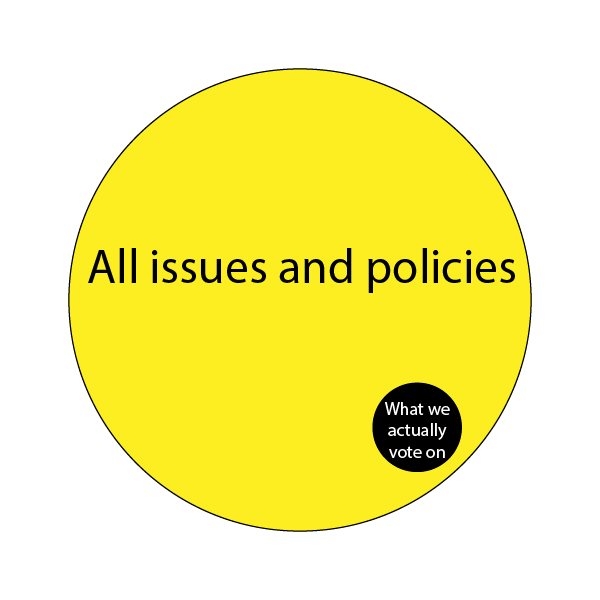
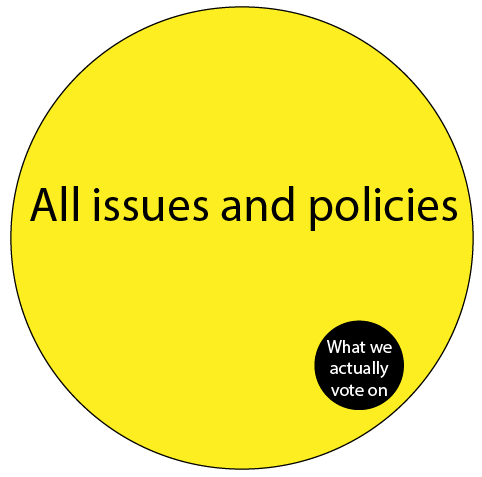
added new image and layouts for about page

diff --git a/uv-vote/src/About.js b/uv-vote/src/About.js
@@ -13,24 +13,30 @@ return(
   <Row>
   
     <h2>About U-Vote</h2>
-    <p>U-Vote is for voters! We exist to bring value to you as a voter, no matter how you vote. The way we see it, there’s a big gap between all the issues we care about and the few we actually get to vote on, and we intend to shrink that gap! We want to empower voters, by flipping the script and letting you vote on lots of issues, then taking those results to your elected officials and the public. While votes in U-Vote are non-binding, they do send a big message on your behalf to your elected officials and the public. And, we keep it simple. Vote on your schedule, from your devices, and be heard on lots of topics all year.</p>
+    <p>U-Vote is for voters! We exist to bring value to you as a voter, no matter how you vote. The way we see it, there’s a big gap between all the issues we care about and the few we actually get to vote on, and we intend to shrink that gap! We want to empower voters, by flipping the script and letting you vote on lots of issues, then taking those results to your elected officials and the public. While votes in U-Vote are non-binding, they do send a big message on your behalf. And, we keep it simple. Vote on your schedule, from your devices, and be heard on lots of topics all year.</p>
    
   </Row>    
   <h2>How we got started</h2>
 <Row id="elevate" className='mt-3'>
-  <Col lg={6} sm={12}>
-  <div className="mb-2 centered-img"><img id="voiceImg" src="ben-selfy.webp" /><figcaption>U-Vote booth at Arlington Courthouse Farmer's market</figcaption></div>
-  </Col>
-    <Col lg={6} sm={12}>
+ 
+  <div className="mb-2 centered-img"><img id="voiceImg" src="ben-selfy.webp" /><figcaption class="figure-caption">Founder Ben Bonnet at U-Vote booth <br/>at Arlington Courthouse Farmer's market</figcaption></div>
     <p>Do problems like gerrymandering, term limits and money in politics frustrate you? Me too. I started my journey to create U-Vote out of frustration. It just didn’t seem right to me that issues with broad public support, like gerrymandering reform, campaign finance reform and term limits, never really get a vote. So I originally set out to tackle those specific issues.</p>
-    </Col>
 </Row>
+<h2>The 'Representation Gap'</h2>
 <Row>
   <Col lg={6} sm={12}>
-  <p>Along the way, I recognized the ‘voting gap’ - i.e. we really don’t get to vote on much each year, but we care about a lot. I realized that we could give people the ability to vote all year long on those issues that never end up on the ballot. And with a software development and user experience background, I thought we could create a system that was simple, convenient and impactful for voters. And here we are, kicking off U-Vote beta testing!</p>
+  <p>Along the way, I recognized the <strong>'representation gap’</strong> - i.e. we really don’t get to vote on much each year, but we care about a lot. I realized that we could give people the ability to vote all year long on those issues that never end up on the ballot. And with a software development and user experience background, I thought we could create a system that was simple, convenient and impactful for voters. And here we are, kicking off U-Vote beta testing!</p>
+  <p>U-Vote is a response to the representation gap. We want to enable you to make your voice heard through <strong>simple, convenient and powerful actions</strong>.</p>
+  <p>Creating a system that’s easy, dynamic and driven to give voters more of a voice is what we're all about!</p>
+  <ul>
+    <li>No special interests,</li>
+    <li>no parties,</li> 
+    <li>no money</li>
+  </ul>
+  <p>All that’s missing is you</p>
   </Col>
   <Col lg={6} sm={12}>
-  <div><img id="votingGap" src="voting_gap.png" /></div>
+  <div><img id="votingGap" src="voting_gap.png" /><figcaption id='repGap' class="figure-caption">Diagram showing the 'representation gap'</figcaption></div>
   </Col>
 </Row>
 {/* <Row className='mt-3 alt-grey'>
@@ -62,16 +68,6 @@ return(
   </Figure>
   </Col>
 </Row> */}
-<Row>
-Issues like gerrymandering 
-Frustrations with current mechanisms to make voice heard
-Creating a system that’s easy, dynamic and powerful
-
-No special interests, no parties, no money
-
-All that’s missing is you
-
-</Row>
 {/* <Row className='mt-3 mb-3'>
 <Accordion>
         <Accordion.Item eventKey="0">

diff --git a/uv-vote/src/App.css b/uv-vote/src/App.css
@@ -159,7 +159,7 @@ button, .btn {
 }
 
 .centered-img {
-  width: 400px;
+  width: 80%;
   text-align: left;
 }
 
@@ -237,6 +237,11 @@ button, .btn {
   display: block;
   margin-left: auto;
   margin-right: auto;
+
+}
+
+.figure-caption{
+  font-size: small;
 
 }
 
@@ -496,6 +501,10 @@ Form input.error {
   display:block;
 }
 
+#repGap{
+  text-align: center;
+  width: 80%
+}
 
 #root hr.nav-sep{
   margin:5px 0;
@@ -634,11 +643,6 @@ Form input.error {
   width: 25px;
 }
 
-#votingGap{
-  width:500px;
-  min-width: 400px;
-}
-
 #verifyAddress {
   color: white;
 }
@@ -672,6 +676,9 @@ Form input.error {
 
 .video-space{
   margin-left: 20px;
+}
+#votingGap{
+  width: auto;
 }
 
 @keyframes App-logo-spin {
@@ -766,7 +773,6 @@ Form input.error {
   }
 
   .centered-img {
-    padding: 0 20%;
     margin:auto;
     text-align: center;
   }
@@ -785,9 +791,8 @@ Form input.error {
     margin-left: auto;
     margin-right: auto;
   }
-  #voiceImg {
-    width: 300px;
-    /* height: 320px; */
+  #votingGap{
+    width: 100%;
   }
 }
 
